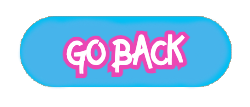
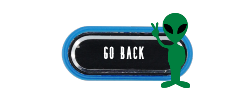
added go back button on playscreen:
issues faced:

- collision box not in correct location.
- no mouse click required, hovering over collision is suffice to go back to main menu, which is wrong. A mouse click is required.

diff --git a/core/src/com/gencaydil/raid/Playscreen.java b/core/src/com/gencaydil/raid/Playscreen.java
@@ -4,9 +4,11 @@ import com.badlogic.gdx.Game;
 import com.badlogic.gdx.Gdx;
 import com.badlogic.gdx.Input;
 import com.badlogic.gdx.Screen;
+import com.badlogic.gdx.graphics.Color;
 import com.badlogic.gdx.graphics.GL20;
 import com.badlogic.gdx.graphics.OrthographicCamera;
 import com.badlogic.gdx.graphics.g2d.SpriteBatch;
+import com.badlogic.gdx.graphics.glutils.ShapeRenderer;
 import com.badlogic.gdx.math.Vector3;
 import com.badlogic.gdx.utils.ScreenUtils;
 
@@ -14,14 +16,18 @@ public class Playscreen implements Screen {
 
     private OrthographicCamera cam;
     private Spaceship spaceship = new Spaceship();
+    private Button playscreenButton = new Button(Gdx.graphics.getWidth(),Gdx.graphics.getHeight(),"gobackplayscreen.jpg");
     private Alien alienOne = new Alien(300,420,"alienimage.jpg");
     private Alien alienTwo = new Alien(360,420,"alienimage.jpg");
     private Alien alienThree = new Alien(420,420,"alienimage.jpg");
     private Alien alienFour = new Alien(240,420,"alienimage.jpg");
     private Alien alienFive = new Alien(180,420,"alienimage.jpg");
+    private Backgroundimages playscreenImage = new Backgroundimages("starsbackground.jpeg");
     private SpriteBatch spriteBatch;
     private Game game;
     private Vector3 touchPoint;
+    private MainMenu mainMenu;
+    private ShapeRenderer sr = new ShapeRenderer();
 
 
     public Playscreen(SpriteBatch batch, Game game){
@@ -30,23 +36,28 @@ public class Playscreen implements Screen {
         cam.setToOrtho(false, Gdx.graphics.getWidth(),Gdx.graphics.getHeight());
         this.spriteBatch = batch;
         this.game = game;
+        this.mainMenu = mainMenu;
 
     }
 
-    public void handleInput (){
+    public void handleInput () {
         touchPoint = new Vector3(Gdx.input.getX(), Gdx.input.getY(), 0);
         cam.unproject(touchPoint);
-            if (Gdx.input.isKeyPressed(Input.Keys.D) || Gdx.input.isKeyPressed (Input.Keys.RIGHT)) {
-                spaceship.goRight();
-            }else if (Gdx.input.isKeyPressed(Input.Keys.A) || Gdx.input.isKeyPressed(Input.Keys.LEFT)){
-                spaceship.goLeft();
-
-            }
-
-
+        if (Gdx.input.isKeyPressed(Input.Keys.D) || Gdx.input.isKeyPressed(Input.Keys.RIGHT)) {
+            spaceship.goRight();
+        } else if (Gdx.input.isKeyPressed(Input.Keys.A) || Gdx.input.isKeyPressed(Input.Keys.LEFT)) {
+            spaceship.goLeft();
+        }
+        if (playscreenButton.getCollision().contains(touchPoint.x, touchPoint.y)){
+            System.out.println("gone back haha");
+            game.setScreen(new MainMenu(spriteBatch, game));
+        }
 
 
     }
+
+
+
 
 
     @Override
@@ -58,8 +69,11 @@ public class Playscreen implements Screen {
     @Override
     public void render(float delta) {
         handleInput();
+
         Gdx.gl.glClear(GL20.GL_COLOR_BUFFER_BIT);
         spriteBatch.begin();
+        spriteBatch.draw(playscreenImage.getTexture(),0,0);
+        spriteBatch.draw(playscreenButton.getTexture(),565,410);
         spriteBatch.draw(spaceship.getTexture(),spaceship.getX(), spaceship.getY());
         spriteBatch.draw(alienOne.getTexture(),alienOne.getX(), alienOne.getY());
         spriteBatch.draw(alienTwo.getTexture(),alienTwo.getX(), alienTwo.getY());
@@ -68,6 +82,11 @@ public class Playscreen implements Screen {
         spriteBatch.draw(alienFive.getTexture(),alienFive.getX(), alienFive.getY());
         spriteBatch.end();
 
+        sr.setProjectionMatrix(cam.combined);
+        sr.begin(ShapeRenderer.ShapeType.Line);
+        sr.setColor(Color.WHITE);
+        sr.rect(playscreenButton.getCollision().x, playscreenButton.getCollision().y, playscreenButton.getCollision().width, playscreenButton.getCollision().height);
+        sr.end();
 
     }
 

diff --git a/core/src/com/gencaydil/raid/MainMenu.java b/core/src/com/gencaydil/raid/MainMenu.java
@@ -3,6 +3,7 @@ package com.gencaydil.raid;
 import com.badlogic.gdx.Game;
 import com.badlogic.gdx.Gdx;
 import com.badlogic.gdx.Screen;
+import com.badlogic.gdx.graphics.Color;
 import com.badlogic.gdx.graphics.GL20;
 import com.badlogic.gdx.graphics.OrthographicCamera;
 import com.badlogic.gdx.graphics.g2d.SpriteBatch;
@@ -34,7 +35,7 @@ public class MainMenu implements Screen {
 
     @Override
     public void show() {
-        ScreenUtils.clear(1, 0, 0, 1);
+        ScreenUtils.clear(0, 0, 0, 1);
 
     }
 
@@ -71,13 +72,13 @@ public class MainMenu implements Screen {
         spriteBatch.draw(exitButton.getTexture(),exitButton.getX(), exitButton.getY(), exitButton.getWidth(), exitButton.getHeight());
         spriteBatch.end();
 
-//        sr.setProjectionMatrix(cam.combined);
-//        sr.begin(ShapeRenderer.ShapeType.Line);
-//        sr.setColor(Color.WHITE);
-//        sr.rect(newgameButton.getCollision().x, newgameButton.getCollision().y, newgameButton.getCollision().width, newgameButton.getCollision().height);
-//        sr.rect(settingsButton.getCollision().x, settingsButton.getCollision().y, settingsButton.getCollision().width, settingsButton.getCollision().height);
-//        sr.rect(exitButton.getCollision().x, exitButton.getCollision().y, exitButton.getCollision().width, exitButton.getCollision().height);
-//        sr.end();
+        sr.setProjectionMatrix(cam.combined);
+        sr.begin(ShapeRenderer.ShapeType.Line);
+        sr.setColor(Color.WHITE);
+        sr.rect(newgameButton.getCollision().x, newgameButton.getCollision().y, newgameButton.getCollision().width, newgameButton.getCollision().height);
+        sr.rect(settingsButton.getCollision().x, settingsButton.getCollision().y, settingsButton.getCollision().width, settingsButton.getCollision().height);
+        sr.rect(exitButton.getCollision().x, exitButton.getCollision().y, exitButton.getCollision().width, exitButton.getCollision().height);
+        sr.end();
 
 
     }
